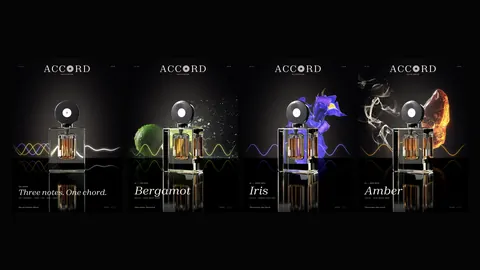
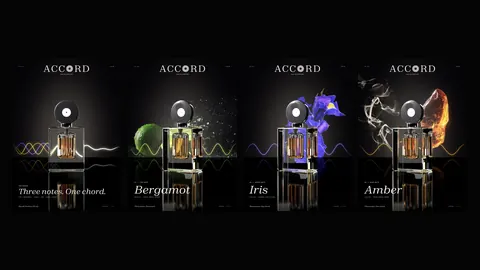
ACCORD: System bez breakdowna, četiri table u mreži 2×2; delovi istog formata se slažu sa jednakim razmakom

diff --git a/index.html b/index.html
@@ -16,7 +16,7 @@
   <link rel="preconnect" href="https://fonts.googleapis.com">
   <link rel="preconnect" href="https://fonts.gstatic.com" crossorigin>
   <link rel="stylesheet" href="https://fonts.googleapis.com/css2?family=Archivo:wdth,wght@62..125,300..900&family=Instrument+Serif:ital@1&display=swap">
-  <link rel="stylesheet" href="css/site.css?v=f8d1dd2b">
+  <link rel="stylesheet" href="css/site.css?v=f671abda">
   <script>
     // js flag + the avatar intro decision, before first paint so the page never flashes under the intro
     // (same "lite" rules as js/site.js: desktop width, motion allowed, not a low-end device, once per session)
@@ -33,7 +33,7 @@
       } catch (e) { /* storage blocked: no intro */ }
     })(document.documentElement);
   </script>
-  <script src="js/site.js?v=99ad143b" defer></script>
+  <script src="js/site.js?v=befbde55" defer></script>
 </head>
 <body>
   <a class="skip" href="#work">Skip to work</a>
@@ -204,9 +204,9 @@
               <p class="proj__role"><span>Role</span>Concept, identity, typography, 3D and lighting, compositing, original score, creative code, front-end</p>
               <p class="proj__note">ACCORD is a fictional fragrance brand and a self-initiated project. Photographs (limes, iris, amber, smoke) and mockups (billboard, citylight, magazine): Freepik (licensed). Bottle, box and bag: own 3D in Blender (Cycles); studio HDRI: Poly Haven (CC0). Typefaces: Zodiak and Switzer by Indian Type Foundry (Fontshare, ITF Free Font License). Music: original, synthesised in code.</p>
             </div>
-            <div class="proj__pvw" role="group" aria-label="Every format: pick one to put it on program"><button class="mv__mon" type="button" style="--i:0" data-cut="1" aria-pressed="true" aria-label="Living identity · the bottle turns, the chord runs through the glass"><img src="media/projects/accord/t-a6d5b306.webp" alt="" width="480" height="270" decoding="async"><span class="mv__name"><b>1</b>Loop</span></button><button class="mv__mon" type="button" style="--i:1" data-cut="2" aria-pressed="false" aria-label="Live · turn the bottle: the light on the glass tunes the chord"><img src="media/projects/accord/t-7c78cb94.webp" alt="" width="480" height="270" decoding="async"><span class="mv__name"><b>2</b>Live · Spin</span><i class=mv__live>Live</i></button><button class="mv__mon" type="button" style="--i:2" data-cut="3" aria-pressed="false" aria-label="Brand film · 30 s, original score: top, heart, base, then one chord"><img src="media/projects/accord/t-b5629279.webp" alt="" width="480" height="270" decoding="async"><span class="mv__name"><b>3</b>Film · sound</span></button><button class="mv__mon" type="button" style="--i:3" data-cut="4" aria-pressed="false" aria-label="Key visual THE CHORD and the three notes · 50×70"><img src="media/projects/accord/t-865f2447.webp" alt="" width="480" height="270" decoding="async"><span class="mv__name"><b>4</b>Posters ×4</span></button><button class="mv__mon" type="button" style="--i:4" data-cut="5" aria-pressed="false" aria-label="Motion 9:16 and the 15 s story"><img src="media/projects/accord/t-64c741b6.webp" alt="" width="480" height="270" decoding="async"><span class="mv__name"><b>5</b>Motion 9:16</span></button><button class="mv__mon" type="button" style="--i:5" data-cut="6" aria-pressed="false" aria-label="Billboard over the avenue and a citylight at the stop"><img src="media/projects/accord/t-f27a0b1a.webp" alt="" width="480" height="270" decoding="async"><span class="mv__name"><b>6</b>Outdoor</span></button><button class="mv__mon" type="button" style="--i:6" data-cut="7" aria-pressed="false" aria-label="Print · double-page spread in a magazine"><img src="media/projects/accord/t-0fcfb02a.webp" alt="" width="480" height="270" decoding="async"><span class="mv__name"><b>7</b>Print</span></button><button class="mv__mon" type="button" style="--i:7" data-cut="8" aria-pressed="false" aria-label="Box and bag, rendered with the bottle in the same scene and light"><img src="media/projects/accord/t-6ba2eb2b.webp" alt="" width="480" height="270" decoding="async"><span class="mv__name"><b>8</b>Packaging</span></button><button class="mv__mon" type="button" style="--i:8" data-cut="9" aria-pressed="false" aria-label="Mark, type, colour and grid, the chord engine, behind the glass"><img src="media/projects/accord/t-4d2b8a22.webp" alt="" width="480" height="270" decoding="async"><span class="mv__name"><b>9</b>System</span></button></div>
+            <div class="proj__pvw" role="group" aria-label="Every format: pick one to put it on program"><button class="mv__mon" type="button" style="--i:0" data-cut="1" aria-pressed="true" aria-label="Living identity · the bottle turns, the chord runs through the glass"><img src="media/projects/accord/t-a6d5b306.webp" alt="" width="480" height="270" decoding="async"><span class="mv__name"><b>1</b>Loop</span></button><button class="mv__mon" type="button" style="--i:1" data-cut="2" aria-pressed="false" aria-label="Live · turn the bottle: the light on the glass tunes the chord"><img src="media/projects/accord/t-7c78cb94.webp" alt="" width="480" height="270" decoding="async"><span class="mv__name"><b>2</b>Live · Spin</span><i class=mv__live>Live</i></button><button class="mv__mon" type="button" style="--i:2" data-cut="3" aria-pressed="false" aria-label="Brand film · 30 s, original score: top, heart, base, then one chord"><img src="media/projects/accord/t-b5629279.webp" alt="" width="480" height="270" decoding="async"><span class="mv__name"><b>3</b>Film · sound</span></button><button class="mv__mon" type="button" style="--i:3" data-cut="4" aria-pressed="false" aria-label="Key visual THE CHORD and the three notes · 50×70"><img src="media/projects/accord/t-865f2447.webp" alt="" width="480" height="270" decoding="async"><span class="mv__name"><b>4</b>Posters ×4</span></button><button class="mv__mon" type="button" style="--i:4" data-cut="5" aria-pressed="false" aria-label="Motion 9:16 and the 15 s story"><img src="media/projects/accord/t-64c741b6.webp" alt="" width="480" height="270" decoding="async"><span class="mv__name"><b>5</b>Motion 9:16</span></button><button class="mv__mon" type="button" style="--i:5" data-cut="6" aria-pressed="false" aria-label="Billboard over the avenue and a citylight at the stop"><img src="media/projects/accord/t-f27a0b1a.webp" alt="" width="480" height="270" decoding="async"><span class="mv__name"><b>6</b>Outdoor</span></button><button class="mv__mon" type="button" style="--i:6" data-cut="7" aria-pressed="false" aria-label="Print · double-page spread in a magazine"><img src="media/projects/accord/t-0fcfb02a.webp" alt="" width="480" height="270" decoding="async"><span class="mv__name"><b>7</b>Print</span></button><button class="mv__mon" type="button" style="--i:7" data-cut="8" aria-pressed="false" aria-label="Box and bag, rendered with the bottle in the same scene and light"><img src="media/projects/accord/t-6ba2eb2b.webp" alt="" width="480" height="270" decoding="async"><span class="mv__name"><b>8</b>Packaging</span></button><button class="mv__mon" type="button" style="--i:8" data-cut="9" aria-pressed="false" aria-label="Mark, type, colour and grid, and the chord engine"><img src="media/projects/accord/t-baa383fd.webp" alt="" width="480" height="270" decoding="async"><span class="mv__name"><b>9</b>System</span></button></div>
           </div>
-          <script type="application/json" data-mons>[{"kind":"loop","src":"media/loops/accord.mp4","poster":"media/loops/accord.webp","w":960,"h":540,"label":"Living identity · the bottle turns, the chord runs through the glass","fit":"cover"},{"kind":"live","src":"projects/accord/live/index.html","poster":"media/projects/accord/9d3a20ab-1600.webp","label":"Live · turn the bottle: the light on the glass tunes the chord","fit":"cover"},{"kind":"film","src":"media/projects/accord/2ed80ffe.mp4","poster":"media/projects/accord/2ed80ffe.webp","w":1280,"h":720,"label":"Brand film · 30 s, original score: top, heart, base, then one chord","fit":"cover"},{"kind":"set","cols":4,"items":[{"kind":"image","src":"media/projects/accord/3af07910-1600.webp","srcset":"media/projects/accord/3af07910-480.webp 480w, media/projects/accord/3af07910-960.webp 960w, media/projects/accord/3af07910-1600.webp 1600w","w":2500,"h":3500},{"kind":"image","src":"media/projects/accord/321b6fa7-1600.webp","srcset":"media/projects/accord/321b6fa7-480.webp 480w, media/projects/accord/321b6fa7-960.webp 960w, media/projects/accord/321b6fa7-1600.webp 1600w","w":2500,"h":3500},{"kind":"image","src":"media/projects/accord/1002ada8-1600.webp","srcset":"media/projects/accord/1002ada8-480.webp 480w, media/projects/accord/1002ada8-960.webp 960w, media/projects/accord/1002ada8-1600.webp 1600w","w":2500,"h":3500},{"kind":"image","src":"media/projects/accord/dec09510-1600.webp","srcset":"media/projects/accord/dec09510-480.webp 480w, media/projects/accord/dec09510-960.webp 960w, media/projects/accord/dec09510-1600.webp 1600w","w":2500,"h":3500}],"label":"Key visual THE CHORD and the three notes · 50×70","fit":"contain"},{"kind":"set","cols":2,"items":[{"kind":"video","src":"media/projects/accord/d3a66907.mp4","poster":"media/projects/accord/d3a66907.webp","w":540,"h":960},{"kind":"video","src":"media/projects/accord/bf4190af.mp4","poster":"media/projects/accord/bf4190af.webp","w":540,"h":960}],"label":"Motion 9:16 and the 15 s story","fit":"contain"},{"kind":"set","cols":2,"items":[{"kind":"image","src":"media/projects/accord/a0b3907b-1600.webp","srcset":"media/projects/accord/a0b3907b-480.webp 480w, media/projects/accord/a0b3907b-960.webp 960w, media/projects/accord/a0b3907b-1600.webp 1600w","w":4500,"h":3500},{"kind":"image","src":"media/projects/accord/ae2b089f-1600.webp","srcset":"media/projects/accord/ae2b089f-480.webp 480w, media/projects/accord/ae2b089f-960.webp 960w, media/projects/accord/ae2b089f-1600.webp 1600w","w":3000,"h":4500}],"label":"Billboard over the avenue and a citylight at the stop","fit":"contain"},{"kind":"image","src":"media/projects/accord/b3d1ef58-1600.webp","srcset":"media/projects/accord/b3d1ef58-480.webp 480w, media/projects/accord/b3d1ef58-960.webp 960w, media/projects/accord/b3d1ef58-1600.webp 1600w","w":4500,"h":3000,"label":"Print · double-page spread in a magazine","fit":"contain"},{"kind":"set","cols":2,"items":[{"kind":"image","src":"media/projects/accord/b4967b0b-1600.webp","srcset":"media/projects/accord/b4967b0b-480.webp 480w, media/projects/accord/b4967b0b-960.webp 960w, media/projects/accord/b4967b0b-1600.webp 1600w","w":3600,"h":2400},{"kind":"image","src":"media/projects/accord/3cf1c806-1500.webp","srcset":"media/projects/accord/3cf1c806-480.webp 480w, media/projects/accord/3cf1c806-960.webp 960w, media/projects/accord/3cf1c806-1500.webp 1500w","w":1500,"h":1875}],"label":"Box and bag, rendered with the bottle in the same scene and light","fit":"contain"},{"kind":"set","cols":2,"items":[{"kind":"image","src":"media/projects/accord/dfee58af-1600.webp","srcset":"media/projects/accord/dfee58af-480.webp 480w, media/projects/accord/dfee58af-960.webp 960w, media/projects/accord/dfee58af-1600.webp 1600w","w":2400,"h":1500},{"kind":"image","src":"media/projects/accord/b7cbab2d-1600.webp","srcset":"media/projects/accord/b7cbab2d-480.webp 480w, media/projects/accord/b7cbab2d-960.webp 960w, media/projects/accord/b7cbab2d-1600.webp 1600w","w":2400,"h":1500},{"kind":"image","src":"media/projects/accord/2c61f4db-1600.webp","srcset":"media/projects/accord/2c61f4db-480.webp 480w, media/projects/accord/2c61f4db-960.webp 960w, media/projects/accord/2c61f4db-1600.webp 1600w","w":2400,"h":1500},{"kind":"image","src":"media/projects/accord/a1cea842-1600.webp","srcset":"media/projects/accord/a1cea842-480.webp 480w, media/projects/accord/a1cea842-960.webp 960w, media/projects/accord/a1cea842-1600.webp 1600w","w":2400,"h":1500},{"kind":"image","src":"media/projects/accord/bad74287-1600.webp","srcset":"media/projects/accord/bad74287-480.webp 480w, media/projects/accord/bad74287-960.webp 960w, media/projects/accord/bad74287-1600.webp 1600w","w":2400,"h":1500}],"label":"Mark, type, colour and grid, the chord engine, behind the glass","fit":"contain"}]</script>
+          <script type="application/json" data-mons>[{"kind":"loop","src":"media/loops/accord.mp4","poster":"media/loops/accord.webp","w":960,"h":540,"label":"Living identity · the bottle turns, the chord runs through the glass","fit":"cover"},{"kind":"live","src":"projects/accord/live/index.html","poster":"media/projects/accord/9d3a20ab-1600.webp","label":"Live · turn the bottle: the light on the glass tunes the chord","fit":"cover"},{"kind":"film","src":"media/projects/accord/2ed80ffe.mp4","poster":"media/projects/accord/2ed80ffe.webp","w":1280,"h":720,"label":"Brand film · 30 s, original score: top, heart, base, then one chord","fit":"cover"},{"kind":"set","cols":4,"items":[{"kind":"image","src":"media/projects/accord/3af07910-1600.webp","srcset":"media/projects/accord/3af07910-480.webp 480w, media/projects/accord/3af07910-960.webp 960w, media/projects/accord/3af07910-1600.webp 1600w","w":2500,"h":3500},{"kind":"image","src":"media/projects/accord/321b6fa7-1600.webp","srcset":"media/projects/accord/321b6fa7-480.webp 480w, media/projects/accord/321b6fa7-960.webp 960w, media/projects/accord/321b6fa7-1600.webp 1600w","w":2500,"h":3500},{"kind":"image","src":"media/projects/accord/1002ada8-1600.webp","srcset":"media/projects/accord/1002ada8-480.webp 480w, media/projects/accord/1002ada8-960.webp 960w, media/projects/accord/1002ada8-1600.webp 1600w","w":2500,"h":3500},{"kind":"image","src":"media/projects/accord/dec09510-1600.webp","srcset":"media/projects/accord/dec09510-480.webp 480w, media/projects/accord/dec09510-960.webp 960w, media/projects/accord/dec09510-1600.webp 1600w","w":2500,"h":3500}],"label":"Key visual THE CHORD and the three notes · 50×70","fit":"contain"},{"kind":"set","cols":2,"items":[{"kind":"video","src":"media/projects/accord/d3a66907.mp4","poster":"media/projects/accord/d3a66907.webp","w":540,"h":960},{"kind":"video","src":"media/projects/accord/bf4190af.mp4","poster":"media/projects/accord/bf4190af.webp","w":540,"h":960}],"label":"Motion 9:16 and the 15 s story","fit":"contain"},{"kind":"set","cols":2,"items":[{"kind":"image","src":"media/projects/accord/a0b3907b-1600.webp","srcset":"media/projects/accord/a0b3907b-480.webp 480w, media/projects/accord/a0b3907b-960.webp 960w, media/projects/accord/a0b3907b-1600.webp 1600w","w":4500,"h":3500},{"kind":"image","src":"media/projects/accord/ae2b089f-1600.webp","srcset":"media/projects/accord/ae2b089f-480.webp 480w, media/projects/accord/ae2b089f-960.webp 960w, media/projects/accord/ae2b089f-1600.webp 1600w","w":3000,"h":4500}],"label":"Billboard over the avenue and a citylight at the stop","fit":"contain"},{"kind":"image","src":"media/projects/accord/b3d1ef58-1600.webp","srcset":"media/projects/accord/b3d1ef58-480.webp 480w, media/projects/accord/b3d1ef58-960.webp 960w, media/projects/accord/b3d1ef58-1600.webp 1600w","w":4500,"h":3000,"label":"Print · double-page spread in a magazine","fit":"contain"},{"kind":"set","cols":2,"items":[{"kind":"image","src":"media/projects/accord/b4967b0b-1600.webp","srcset":"media/projects/accord/b4967b0b-480.webp 480w, media/projects/accord/b4967b0b-960.webp 960w, media/projects/accord/b4967b0b-1600.webp 1600w","w":3600,"h":2400},{"kind":"image","src":"media/projects/accord/3cf1c806-1500.webp","srcset":"media/projects/accord/3cf1c806-480.webp 480w, media/projects/accord/3cf1c806-960.webp 960w, media/projects/accord/3cf1c806-1500.webp 1500w","w":1500,"h":1875}],"label":"Box and bag, rendered with the bottle in the same scene and light","fit":"contain"},{"kind":"set","cols":2,"items":[{"kind":"image","src":"media/projects/accord/dfee58af-1600.webp","srcset":"media/projects/accord/dfee58af-480.webp 480w, media/projects/accord/dfee58af-960.webp 960w, media/projects/accord/dfee58af-1600.webp 1600w","w":2400,"h":1500},{"kind":"image","src":"media/projects/accord/b7cbab2d-1600.webp","srcset":"media/projects/accord/b7cbab2d-480.webp 480w, media/projects/accord/b7cbab2d-960.webp 960w, media/projects/accord/b7cbab2d-1600.webp 1600w","w":2400,"h":1500},{"kind":"image","src":"media/projects/accord/2c61f4db-1600.webp","srcset":"media/projects/accord/2c61f4db-480.webp 480w, media/projects/accord/2c61f4db-960.webp 960w, media/projects/accord/2c61f4db-1600.webp 1600w","w":2400,"h":1500},{"kind":"image","src":"media/projects/accord/a1cea842-1600.webp","srcset":"media/projects/accord/a1cea842-480.webp 480w, media/projects/accord/a1cea842-960.webp 960w, media/projects/accord/a1cea842-1600.webp 1600w","w":2400,"h":1500}],"label":"Mark, type, colour and grid, and the chord engine","fit":"contain"}]</script>
         </div>
       </template>
       <template data-proj="interstellar">

diff --git a/css/site.css b/css/site.css
@@ -2481,7 +2481,7 @@ html.is-proj { overflow: hidden; }
   width: 100%; aspect-ratio: 16 / 9; overflow: hidden; border-radius: 6px; background: #050506;
   box-shadow: 0 0 0 1px var(--line), 0 40px 90px -40px color-mix(in srgb, var(--accent) 55%, transparent);
 }
-.mv__screen { position: absolute; inset: 0; }
+.mv__screen { position: absolute; inset: 0; container-type: size; }
 .mv__screen > :is(img, video, iframe) {
   position: absolute; inset: 0; display: block; width: 100%; height: 100%; max-width: none; border: 0; object-fit: contain;
 }
@@ -2499,6 +2499,11 @@ html.is-proj { overflow: hidden; }
   padding: 0; border: 0; background: none; cursor: zoom-in;
 }
 .mv__cell > * { position: absolute; inset: 0; width: 100%; height: 100%; max-width: none; object-fit: contain; }
+/* pieces of one shape: each cell is the piece's own size, so every gutter is the same 8px */
+.mv__set.is-fit .mv__cell {
+  --cw: min((100cqw - 28px - (var(--cols) - 1) * 8px) / var(--cols), (100cqh - 28px - (var(--rows) - 1) * 8px) / var(--rows) * var(--ar));
+  flex: 0 0 var(--cw); height: calc(var(--cw) / var(--ar));
+}
 .mv__set.is-solo { padding: 0; }
 .mv__set.is-solo .mv__cell:not(.is-pick) { display: none; }
 .mv__set.is-solo .mv__cell { flex-basis: 100%; height: 100%; cursor: zoom-out; }

diff --git a/work/baby-boo/index.html b/work/baby-boo/index.html
@@ -16,9 +16,9 @@
   <link rel="preconnect" href="https://fonts.googleapis.com">
   <link rel="preconnect" href="https://fonts.gstatic.com" crossorigin>
   <link rel="stylesheet" href="https://fonts.googleapis.com/css2?family=Archivo:wdth,wght@62..125,300..900&family=Instrument+Serif:ital@1&display=swap">
-  <link rel="stylesheet" href="../../css/site.css?v=f8d1dd2b">
+  <link rel="stylesheet" href="../../css/site.css?v=f671abda">
   <script>document.documentElement.classList.add('js')</script>
-  <script src="../../js/site.js?v=99ad143b" defer></script>
+  <script src="../../js/site.js?v=befbde55" defer></script>
 </head>
 <body class="page-case">
   <a class="skip" href="#case-main">Skip to content</a>

diff --git a/work/ballies/index.html b/work/ballies/index.html
@@ -16,9 +16,9 @@
   <link rel="preconnect" href="https://fonts.googleapis.com">
   <link rel="preconnect" href="https://fonts.gstatic.com" crossorigin>
   <link rel="stylesheet" href="https://fonts.googleapis.com/css2?family=Archivo:wdth,wght@62..125,300..900&family=Instrument+Serif:ital@1&display=swap">
-  <link rel="stylesheet" href="../../css/site.css?v=f8d1dd2b">
+  <link rel="stylesheet" href="../../css/site.css?v=f671abda">
   <script>document.documentElement.classList.add('js')</script>
-  <script src="../../js/site.js?v=99ad143b" defer></script>
+  <script src="../../js/site.js?v=befbde55" defer></script>
 </head>
 <body class="page-case">
   <a class="skip" href="#case-main">Skip to content</a>

diff --git a/work/fsu-2026/index.html b/work/fsu-2026/index.html
@@ -16,9 +16,9 @@
   <link rel="preconnect" href="https://fonts.googleapis.com">
   <link rel="preconnect" href="https://fonts.gstatic.com" crossorigin>
   <link rel="stylesheet" href="https://fonts.googleapis.com/css2?family=Archivo:wdth,wght@62..125,300..900&family=Instrument+Serif:ital@1&display=swap">
-  <link rel="stylesheet" href="../../css/site.css?v=f8d1dd2b">
+  <link rel="stylesheet" href="../../css/site.css?v=f671abda">
   <script>document.documentElement.classList.add('js')</script>
-  <script src="../../js/site.js?v=99ad143b" defer></script>
+  <script src="../../js/site.js?v=befbde55" defer></script>
 </head>
 <body class="page-case">
   <a class="skip" href="#case-main">Skip to content</a>

diff --git a/work/key-art/index.html b/work/key-art/index.html
@@ -16,9 +16,9 @@
   <link rel="preconnect" href="https://fonts.googleapis.com">
   <link rel="preconnect" href="https://fonts.gstatic.com" crossorigin>
   <link rel="stylesheet" href="https://fonts.googleapis.com/css2?family=Archivo:wdth,wght@62..125,300..900&family=Instrument+Serif:ital@1&display=swap">
-  <link rel="stylesheet" href="../../css/site.css?v=f8d1dd2b">
+  <link rel="stylesheet" href="../../css/site.css?v=f671abda">
   <script>document.documentElement.classList.add('js')</script>
-  <script src="../../js/site.js?v=99ad143b" defer></script>
+  <script src="../../js/site.js?v=befbde55" defer></script>
 </head>
 <body class="page-case">
   <a class="skip" href="#case-main">Skip to content</a>

diff --git a/work/live-on-the-streets/index.html b/work/live-on-the-streets/index.html
@@ -16,9 +16,9 @@
   <link rel="preconnect" href="https://fonts.googleapis.com">
   <link rel="preconnect" href="https://fonts.gstatic.com" crossorigin>
   <link rel="stylesheet" href="https://fonts.googleapis.com/css2?family=Archivo:wdth,wght@62..125,300..900&family=Instrument+Serif:ital@1&display=swap">
-  <link rel="stylesheet" href="../../css/site.css?v=f8d1dd2b">
+  <link rel="stylesheet" href="../../css/site.css?v=f671abda">
   <script>document.documentElement.classList.add('js')</script>
-  <script src="../../js/site.js?v=99ad143b" defer></script>
+  <script src="../../js/site.js?v=befbde55" defer></script>
 </head>
 <body class="page-case">
   <a class="skip" href="#case-main">Skip to content</a>

diff --git a/work/series-at-scale/index.html b/work/series-at-scale/index.html
@@ -16,9 +16,9 @@
   <link rel="preconnect" href="https://fonts.googleapis.com">
   <link rel="preconnect" href="https://fonts.gstatic.com" crossorigin>
   <link rel="stylesheet" href="https://fonts.googleapis.com/css2?family=Archivo:wdth,wght@62..125,300..900&family=Instrument+Serif:ital@1&display=swap">
-  <link rel="stylesheet" href="../../css/site.css?v=f8d1dd2b">
+  <link rel="stylesheet" href="../../css/site.css?v=f671abda">
   <script>document.documentElement.classList.add('js')</script>
-  <script src="../../js/site.js?v=99ad143b" defer></script>
+  <script src="../../js/site.js?v=befbde55" defer></script>
 </head>
 <body class="page-case">
   <a class="skip" href="#case-main">Skip to content</a>

diff --git a/js/site.js b/js/site.js
@@ -917,6 +917,12 @@
         box.className = 'mv__set';
         box.style.setProperty('--cols', m.cols);
         box.style.setProperty('--rows', Math.ceil(m.items.length / m.cols));
+        // pieces of one shape: the cells hug them, so every gutter is the same (css: .is-fit)
+        const ar = m.items.map((it) => it.w / it.h);
+        if (ar.every((a) => a > 0 && Math.abs(a / ar[0] - 1) < 0.02)) {
+          box.classList.add('is-fit');
+          box.style.setProperty('--ar', ar[0].toFixed(4));
+        }
         const cellW = Math.round(p.pgm.clientWidth / m.cols) + 'px';
         m.items.forEach((it) => {
           const c = document.createElement('button');

diff --git a/tools/build_projects.py b/tools/build_projects.py
@@ -139,11 +139,16 @@ def preview(mon, parts, out):
         pad, gap = round(W * 0.025), round(W * 0.012)
         cw = (W - 2 * pad - (cols - 1) * gap) / cols
         ch = (H - 2 * pad - (rows - 1) * gap) / rows
+        ars = [im.width / im.height for im in frames]
+        if max(ars) / min(ars) < 1.02:  # one shape: the cells hug the pieces (css: .mv__set.is-fit)
+            cw = min(cw, ch * ars[0])
+            ch = cw / ars[0]
+        top = pad + (H - 2 * pad - (rows * ch + (rows - 1) * gap)) / 2
         for i, im in enumerate(frames):
             row, col = divmod(i, cols)
             n_in_row = min(cols, len(frames) - row * cols)
             x0 = pad + (W - 2 * pad - (n_in_row * cw + (n_in_row - 1) * gap)) / 2 + col * (cw + gap)
-            y0 = pad + row * (ch + gap)
+            y0 = top + row * (ch + gap)
             r, at = fit(im, (round(cw), round(ch)), False)
             c.paste(r, (round(x0) + at[0], round(y0) + at[1]))
     c.save(out, quality=78, method=6)
